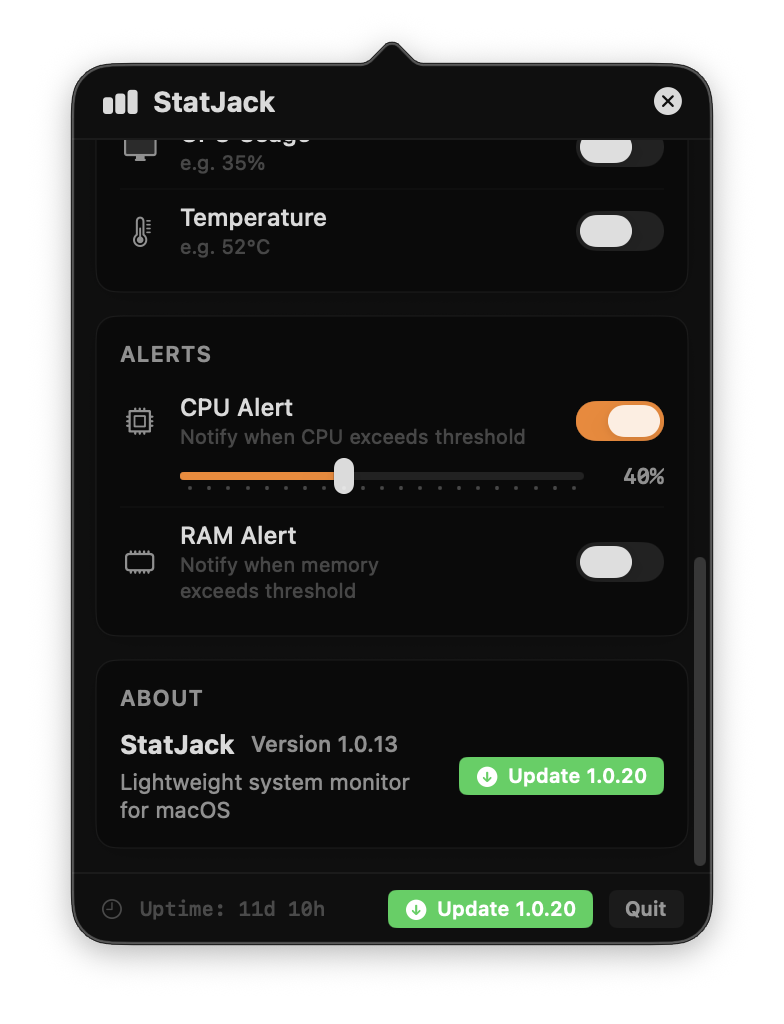
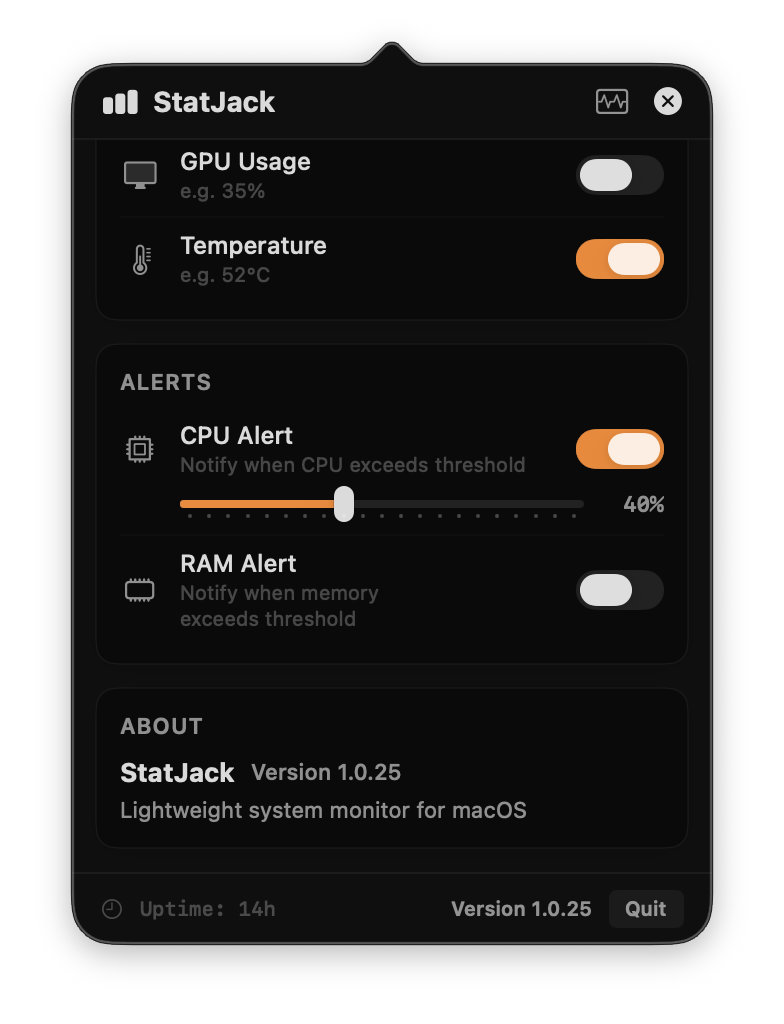
Update README screenshots [skip ci]

diff --git a/README.md b/README.md
@@ -38,13 +38,19 @@
 ## Screenshots
 
 <p align="center">
-  <img src="docs/extras.png" alt="Dashboard with Public IP, CPU, GPU and Temperature cards" width="320">
+  <img src="docs/dashboard.png" alt="Dashboard with CPU, Memory and Network cards" width="320">
   &nbsp;&nbsp;
-  <img src="docs/alerts.png" alt="Threshold alerts and About card with the in-app update button" width="320">
+  <img src="docs/extras.png" alt="Dashboard with GPU and Temperature cards" width="320">
 </p>
 
 <p align="center">
-  <sub>Live sparklines under every metric · GPU + temperature for Apple Silicon · per-metric threshold notifications and one-click in-app updates.</sub>
+  <img src="docs/settings-dock.png" alt="Settings with Dock icon and badge metric controls" width="320">
+  &nbsp;&nbsp;
+  <img src="docs/alerts.png" alt="Settings with menu bar toggles, threshold alerts and About card" width="320">
+</p>
+
+<p align="center">
+  <sub>Live sparklines under every metric · GPU + temperature for Apple Silicon · Dock badge metric picker · threshold notifications.</sub>
 </p>
 
 ## Installation
